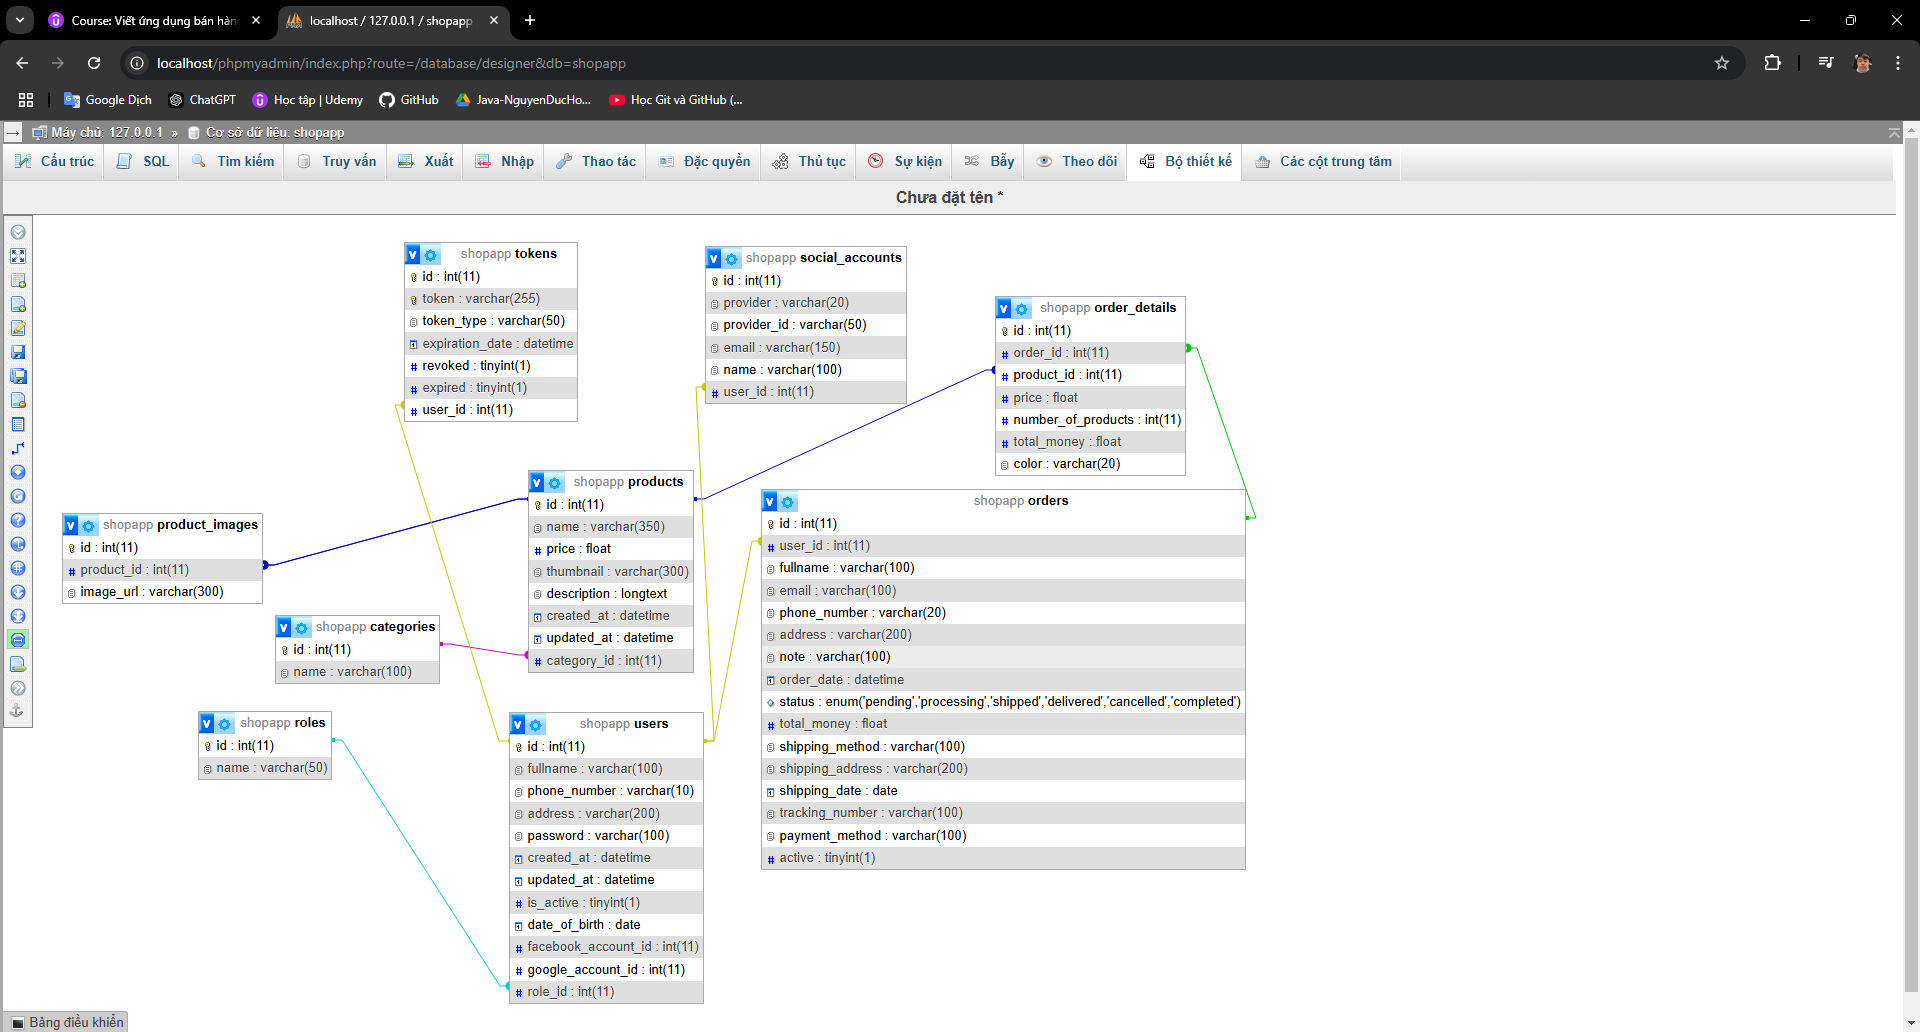
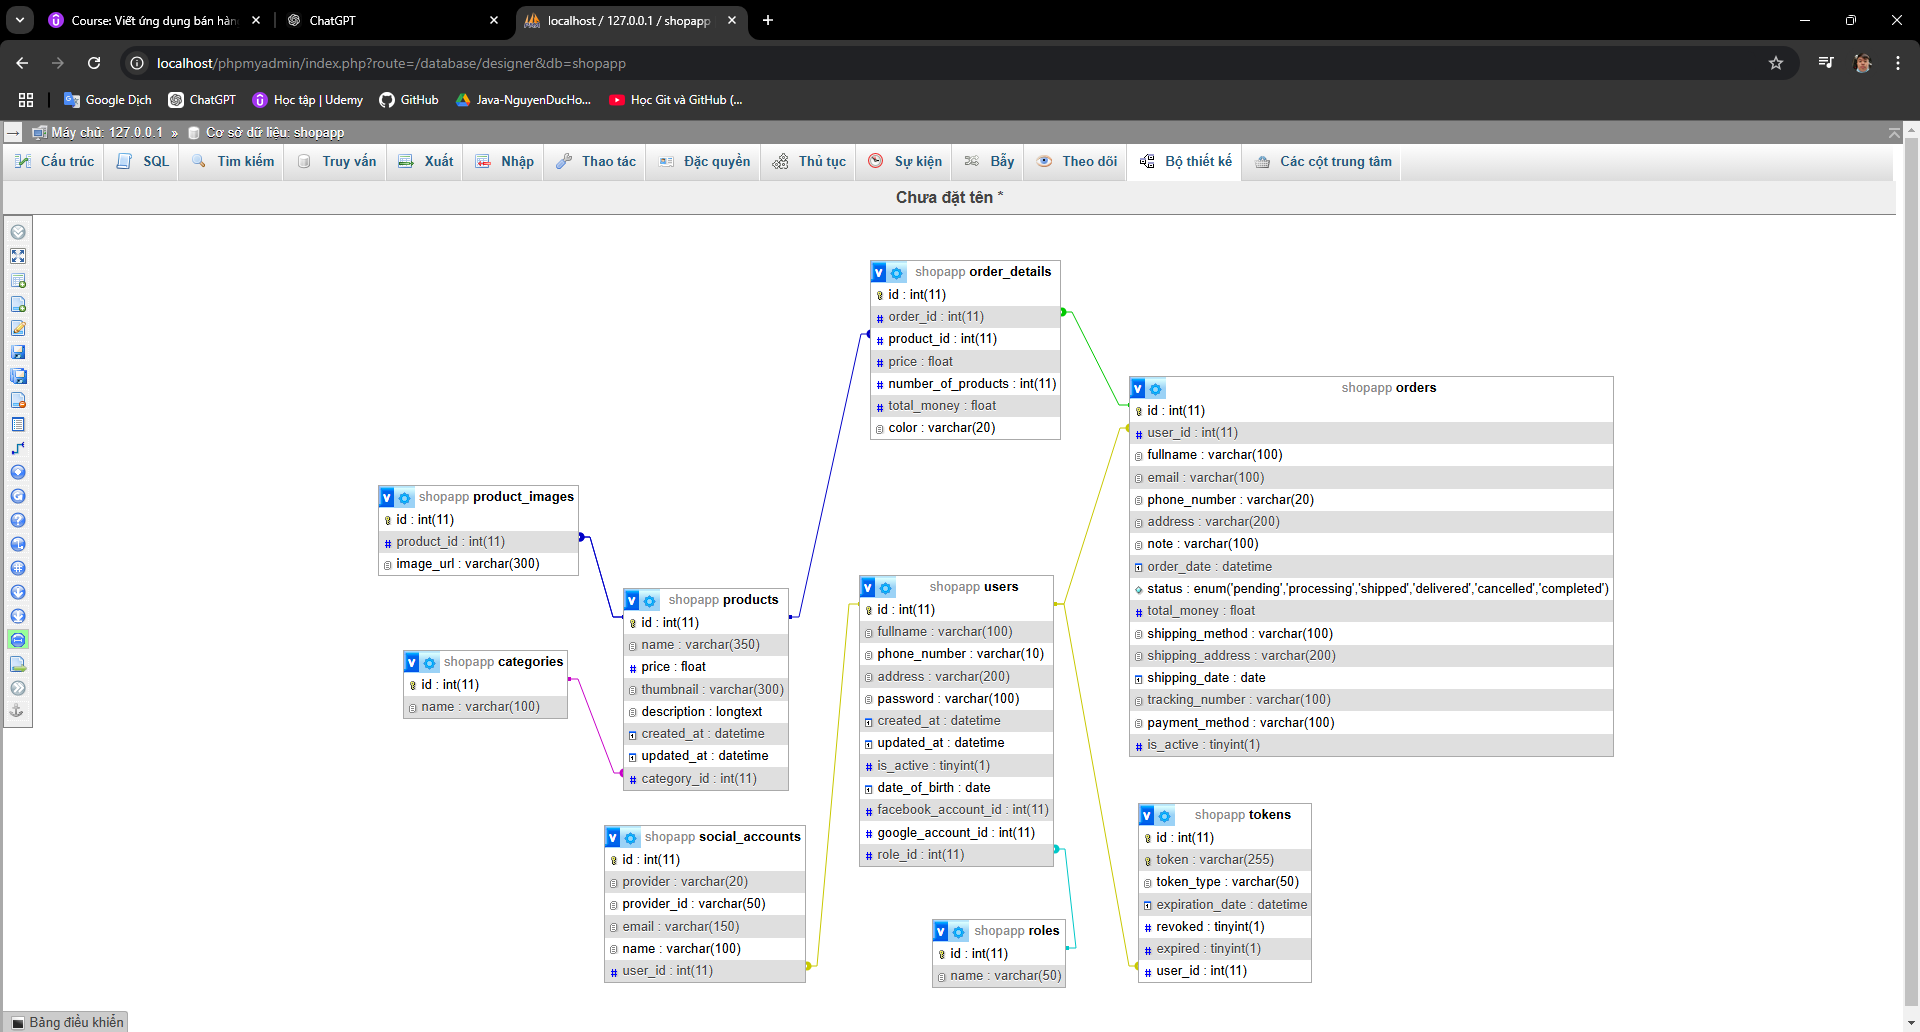
In Model class: add Order, OrderDetail and OrderStauts; OrderStatus contains static variables to be shared when wanting to represent order status; Change active attribute of orders to is_active in sql

diff --git a/src/main/java/com/project/shopapp/models/Order.java b/src/main/java/com/project/shopapp/models/Order.java
@@ -1,0 +1,64 @@
+package com.project.shopapp.models;
+
+import jakarta.persistence.*;
+import lombok.AllArgsConstructor;
+import lombok.Getter;
+import lombok.NoArgsConstructor;
+import lombok.Setter;
+
+import java.time.LocalDateTime;
+import java.util.Date;
+
+@Entity
+@Table(name = "orders")
+@Getter
+@Setter
+@NoArgsConstructor
+@AllArgsConstructor
+public class Order {
+
+    @Id
+    @GeneratedValue(strategy = GenerationType.IDENTITY)
+    private int id;
+
+    @Column(name = "fullname", length = 100)
+    private String fullName;
+
+    @Column(name = "email", length = 100)
+    private String email;
+
+    @Column(name = "phone_number", nullable = false, length = 20)
+    private String phoneNumber;
+
+    @Column(name = "address", length = 200)
+    private String address;
+
+    @Column(name = "note", length = 100)
+    private String note;
+
+    @Column(name = "order_date")
+    private LocalDateTime orderDate;
+
+    private String status;
+
+    @Column(name = "total_money")
+    private Float totalMoney;
+
+    @Column(name = "shipping_method", length = 100)
+    private String shippingMethod;
+
+    @Column(name = "shipping_address", length = 200)
+    private String shippingAddress;
+
+    @Column(name = "shpping_date")
+    private Date shppingDate;
+
+    @Column(name = "is_active")
+    private boolean isActive;
+
+    @ManyToOne
+    @JoinColumn(name = "user_id")
+    private User user;
+
+
+}

diff --git a/src/main/java/com/project/shopapp/models/OrderDetail.java b/src/main/java/com/project/shopapp/models/OrderDetail.java
@@ -1,0 +1,40 @@
+package com.project.shopapp.models;
+
+import jakarta.persistence.*;
+import lombok.AllArgsConstructor;
+import lombok.Getter;
+import lombok.NoArgsConstructor;
+import lombok.Setter;
+
+@Entity
+@Table(name = "order_details")
+@Getter
+@Setter
+@NoArgsConstructor
+@AllArgsConstructor
+public class OrderDetail {
+
+    @Id
+    @GeneratedValue(strategy = GenerationType.IDENTITY)
+    private int id;
+
+    @Column(name = "price", nullable = false)
+    private Float price;
+
+    @Column(name = "number_of_products", nullable = false)
+    private int numberOfProducts;
+
+    @Column(name = "total_money", nullable = false)
+    private float totalMoney;
+
+    @Column(name = "color", length = 20)
+    private String color;
+
+    @ManyToOne
+    @JoinColumn(name = "order_id")
+    private Order order;
+
+    @ManyToOne
+    @JoinColumn(name = "product_id")
+    private Product product;
+}

diff --git a/src/main/java/com/project/shopapp/models/User.java b/src/main/java/com/project/shopapp/models/User.java
@@ -23,13 +23,13 @@ public class User extends BaseEntity {
     @Column(name = "fullname", length = 100)
     private String fullName;
 
-    @Column(name = "phone_number", length = 10, nullable = false)
+    @Column(name = "phone_number", nullable = false, length = 10)
     private String phoneNumber;
 
     @Column(name = "address", length = 200)
     private String address;
 
-    @Column(name = "password", length = 100, nullable = false)
+    @Column(name = "password", nullable = false, length = 100)
     private String password;
 
     @Column(name = "is_active")

diff --git a/src/main/java/com/project/shopapp/models/SocialAccount.java b/src/main/java/com/project/shopapp/models/SocialAccount.java
@@ -18,10 +18,10 @@ public class SocialAccount {
     @GeneratedValue(strategy = GenerationType.IDENTITY)
     private int id;
 
-    @Column(name = "provider", length = 20, nullable = false)
+    @Column(name = "provider", nullable = false, length = 20)
     private String provider;
 
-    @Column(name = "provider_id", length = 50, nullable = false)
+    @Column(name = "provider_id", nullable = false, length = 50)
     private String providerId;
 
     @Column(name = "email", length = 150)

diff --git a/src/main/java/com/project/shopapp/models/OrderStatus.java b/src/main/java/com/project/shopapp/models/OrderStatus.java
@@ -1,0 +1,17 @@
+package com.project.shopapp.models;
+
+public class OrderStatus {
+
+    public static final String PENDING = "pending";
+
+    public static final String PROCESSING = "processing";
+
+    public static final String SHIPPED = "shipped";
+
+    public static final String DELIVERED = "delivered";
+
+    public static final String CANCELLED = "cancelled";
+
+    public static final String COMPLETED = "completed";
+
+}
